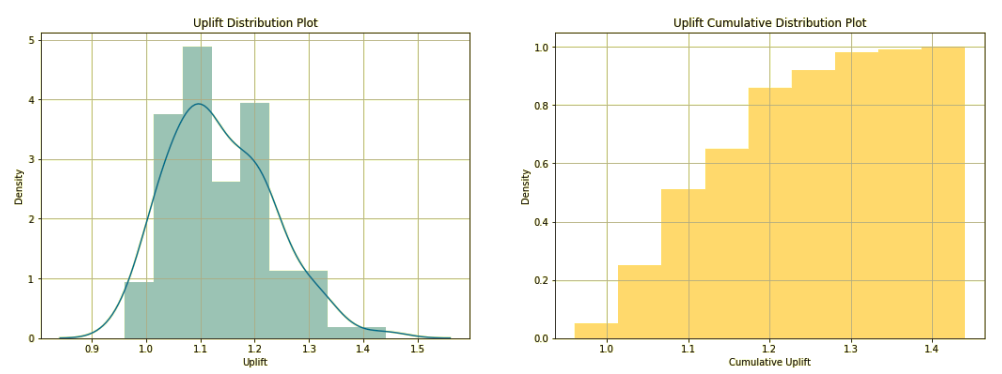
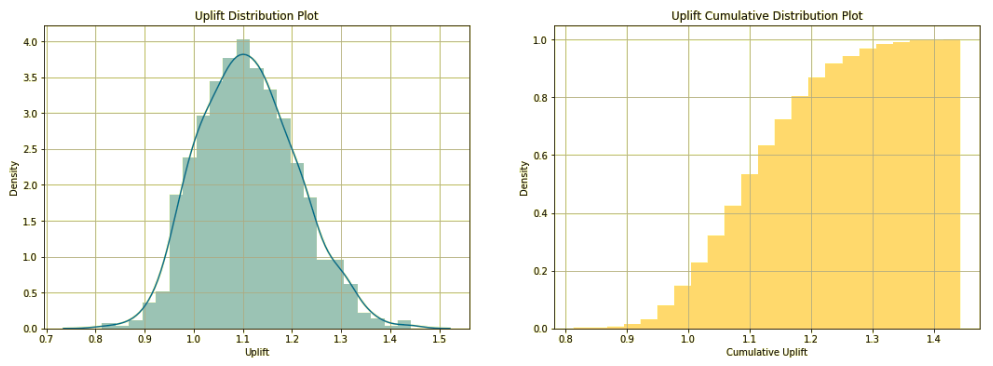
check-in

Changed region(s): [[0.0, 0.0301, 0.999, 0.9918]]

diff --git a/README.rst b/README.rst
@@ -71,7 +71,7 @@ Code Snippet:
    # conduct experiment with two variants successes and trials, along with uplift method and number of simulations
    ad_experiment_bayesian.conduct_experiment(success_null=100, trials_null=1000, 
                                              success_alt=125, trials_alt=1000, 
-                                             uplift_method='uplift_ratio', num_simulations=100)
+                                             uplift_method='uplift_ratio', num_simulations=1000)
 
 
 Output:
@@ -92,9 +92,9 @@ Output:
    ____________
 
    Evaluation Metric: uplift_ratio
-   Number of mcmc simulations: 100
+   Number of mcmc simulations: 1000
 
-   96.55 % simulations show Uplift Ratio above 1.
+   90.33 % simulations show Uplift Ratio above 1.
 
 .. image:: img/fig2.png
 
